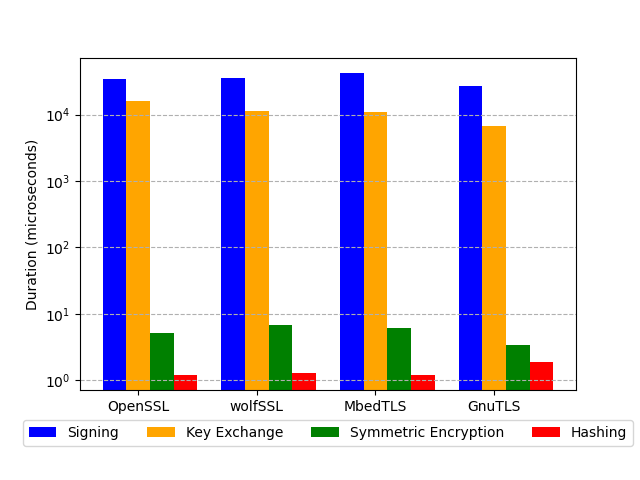
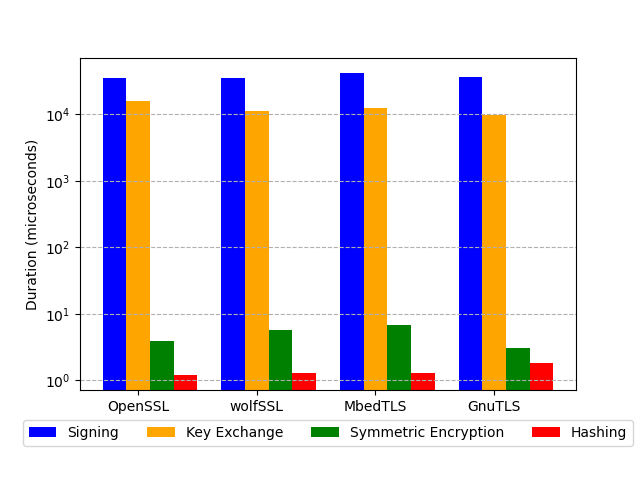
gsdf

diff --git a/plots/time_ffdhx_3b.py b/plots/time_ffdhx_3b.py
@@ -20,12 +20,13 @@ import numpy as np
 # }
 # print(matplotlib.__version__)
 libs = ['OpenSSL', 'wolfSSL', 'MbedTLS', 'GnuTLS']
-durs4 = {
-    'Hashing': (6.3, 149, 72, 203),
-    'Symmetric Encryption': (34, 71, 45, 82),
-    'Signing': (34747.4, 35339, 42346, 74872),
-    # 'FFDH-2048': (1692268.4, 38079.8, 118447, 79372),
-    'Key Exchange': (169226, 38079.8, 118447, 79372),   
+
+durs3 = {
+    'Hashing': (7.4, 170, 105, 261),
+    'Symmetric Encryption': (52, 105, 71, 139),
+    'Signing': (54580.7, 83311, 89454, 100362),
+    # 'FFDH-2048': (2663573, 89817.9, 201569, 95617),
+    'Key Exchange': (266357, 89817.9, 201569, 95617),   
 }
 
 bottom = np.zeros(3)
@@ -36,7 +37,7 @@ fig, ax = plt.subplots(layout='constrained')
 bottom = np.zeros(4)
 colors = ['red', 'green', 'blue', 'orange']
 i = 0
-for boolean, dur in durs4.items():
+for boolean, dur in durs3.items():
     p = ax.bar(libs, dur, width, label=boolean, bottom=bottom, color=colors[i])
     bottom += dur
     i += 1
@@ -55,10 +56,10 @@ ax.set_position([box.x0+ box.width * 0.1, box.y0 + box.height * 0.1,
 # Put a legend below current axis
 ax.legend(loc='upper center', bbox_to_anchor=(0.4, -0.07), ncol=5)
 
-dur_osl = durs4['Hashing'][0] + durs4['Key Exchange'][0] + durs4['Signing'][0] + durs4['Hashing'][0]
-dur_wsl = durs4['Hashing'][1] + durs4['Key Exchange'][1] + durs4['Signing'][1] + durs4['Hashing'][1]
-dur_mbd = durs4['Hashing'][2] + durs4['Key Exchange'][2] + durs4['Signing'][2] + durs4['Hashing'][2]
-dur_gtl = durs4['Hashing'][3] + durs4['Key Exchange'][3] + durs4['Signing'][3] + durs4['Hashing'][3]
+dur_osl = durs3['Hashing'][0] + durs3['Key Exchange'][0] + durs3['Signing'][0] + durs3['Hashing'][0]
+dur_wsl = durs3['Hashing'][1] + durs3['Key Exchange'][1] + durs3['Signing'][1] + durs3['Hashing'][1]
+dur_mbd = durs3['Hashing'][2] + durs3['Key Exchange'][2] + durs3['Signing'][2] + durs3['Hashing'][2]
+dur_gtl = durs3['Hashing'][3] + durs3['Key Exchange'][3] + durs3['Signing'][3] + durs3['Hashing'][3]
 ylim = max(dur_osl,dur_wsl,dur_mbd,dur_gtl)
 ax.set_ylim(0, ylim)
 # ax.set_yscale('log')

diff --git a/plots/time_invall.py b/plots/time_invall.py
@@ -21,10 +21,10 @@ import numpy as np
 
 libs = ('OpenSSL', 'wolfSSL', 'MbedTLS', 'GnuTLS')
 durs = {
-    'Signing': (34626.8, 35588, 42559, 27226.1), 
-    'Key Exchange': (15821.5, 11122.2, 11044, 6616.3),   
-    'Symmetric Encryption': (5.1, 6.7, 6.1, 3.4), 
-    'Hashing': (1.2, 1.3, 1.2, 1.9), 
+    'Signing': (34747.4, 35339, 42346, 36568.6), 
+    'Key Exchange': (15833.1, 11131.8, 12367.7, 9880.6),   
+    'Symmetric Encryption': (3.9, 5.7, 6.7, 3.1), 
+    'Hashing': (1.2, 1.3, 1.3, 1.8), 
 }
 
 x = np.arange(len(libs))  # the label locations
